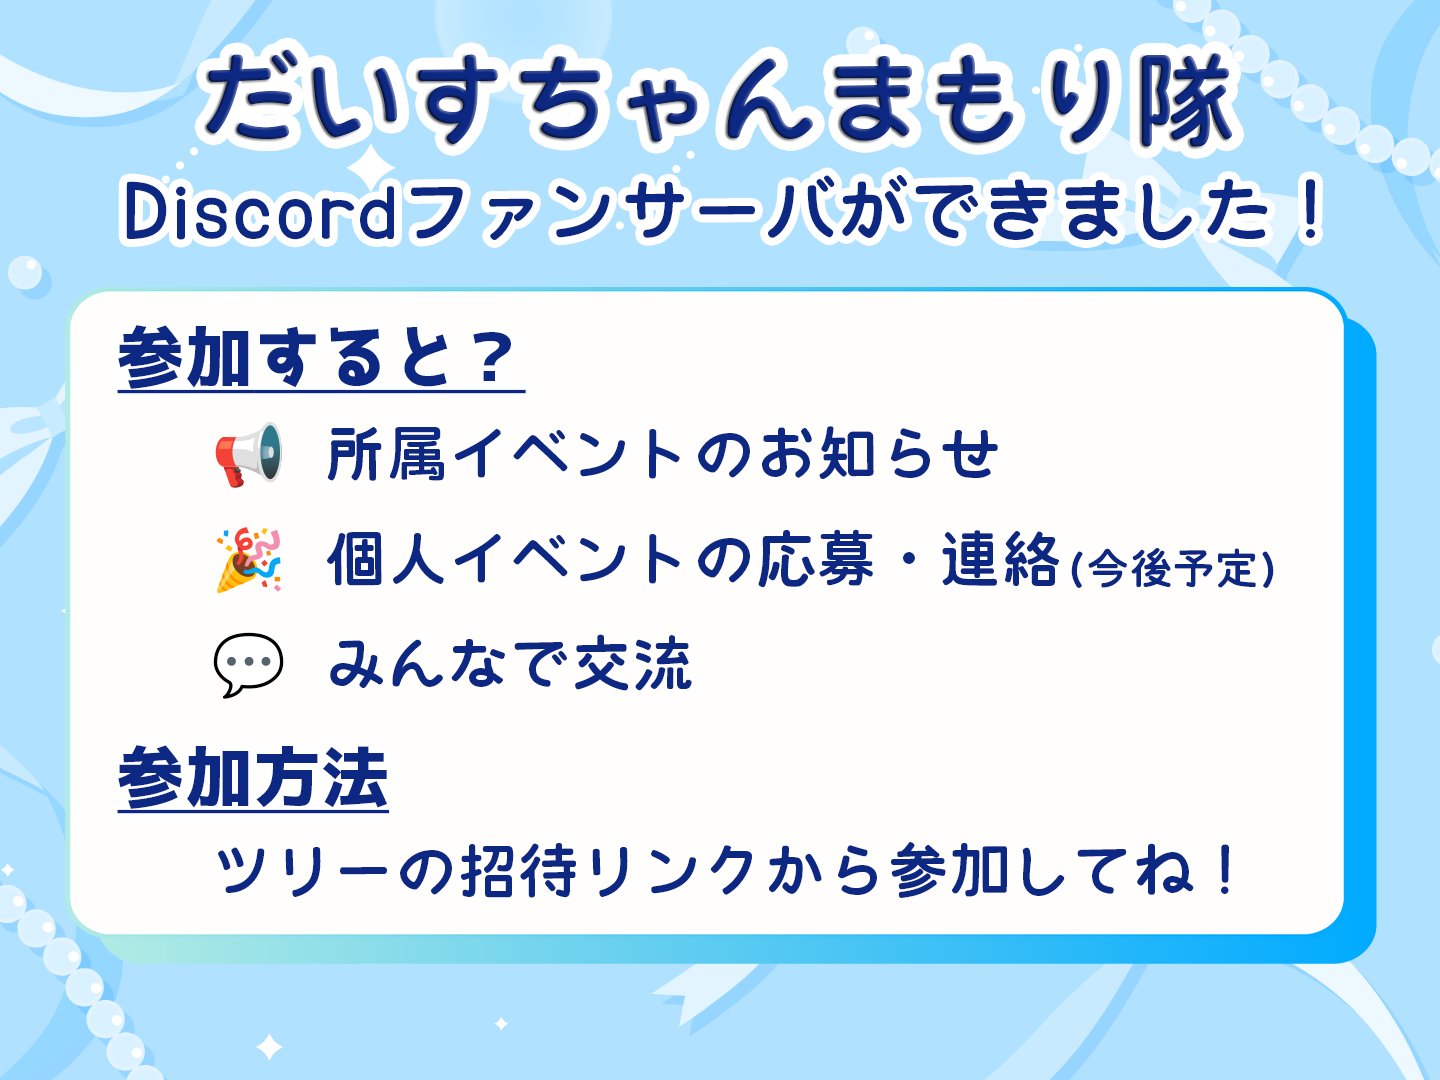
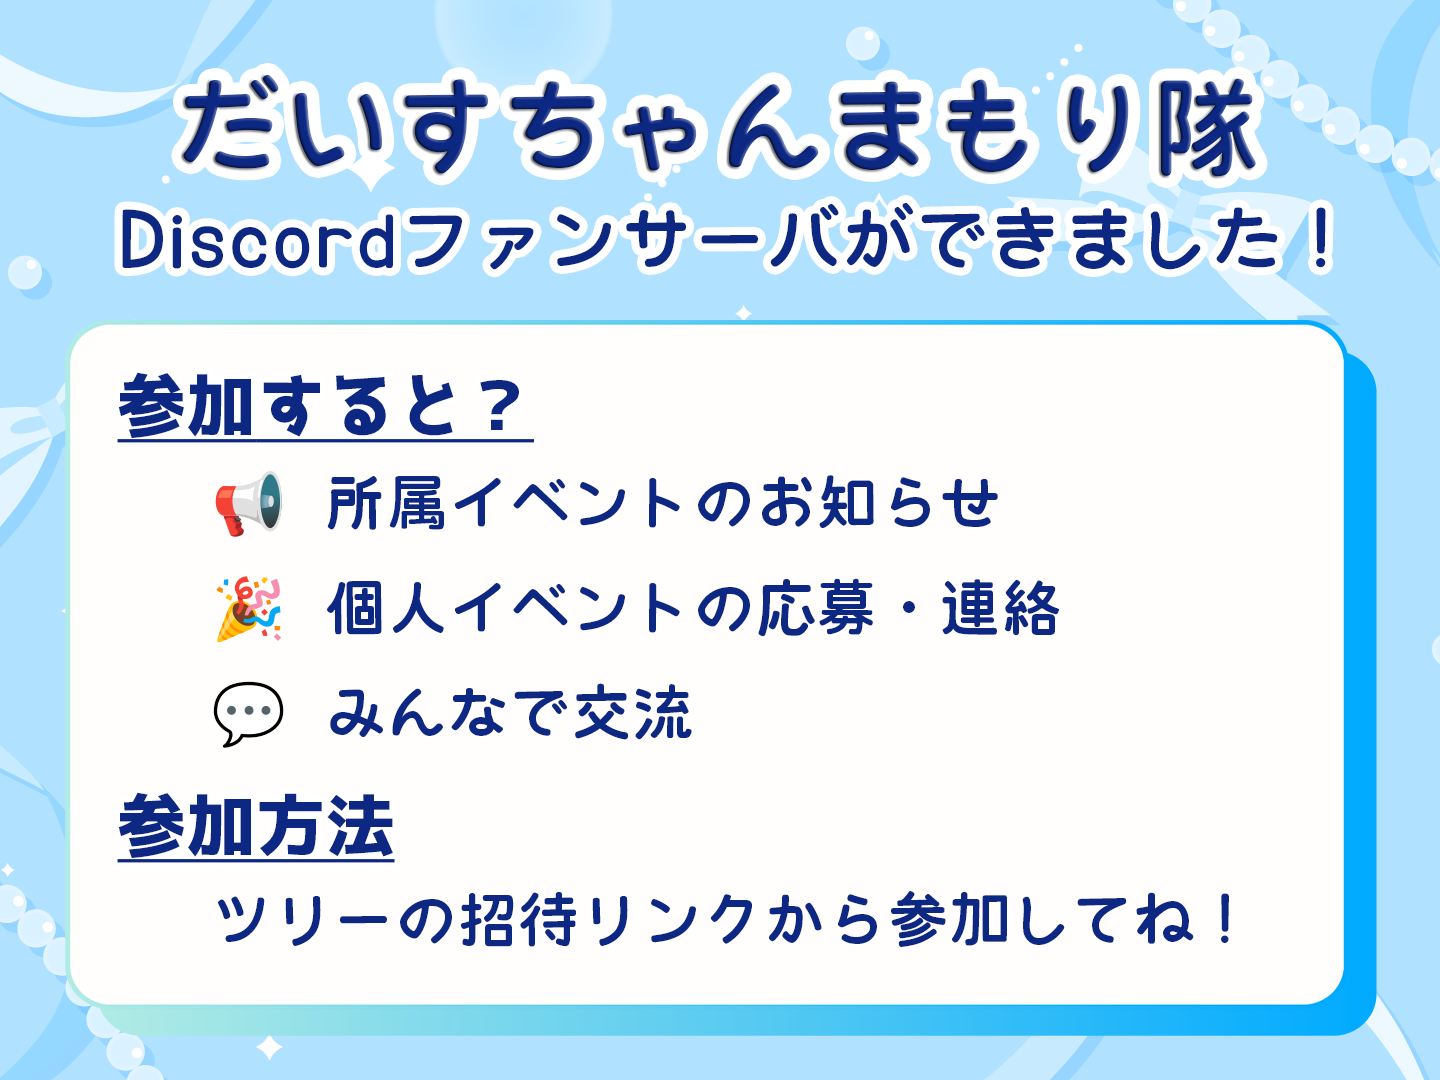
ファンサーバの紹介、バナー画像を更新

diff --git a/index.html b/index.html
@@ -186,7 +186,7 @@
                    class="feature-card">
                    
                     <div class="feature-image">
-                        <img src="images/banner/fanserver.png" alt="">
+                        <img src="images/banner/fanserver-banner.png" alt="">
                     </div>
                     <div class="feature-content">
                         <span class="feature-label">FAN SERVER</span>
